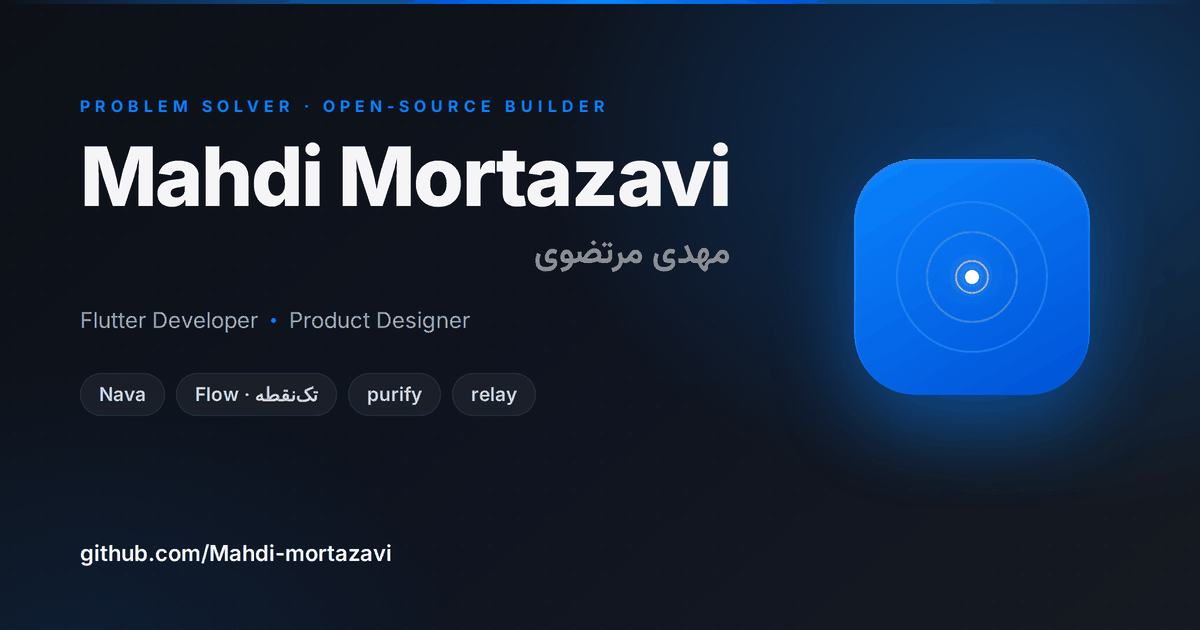
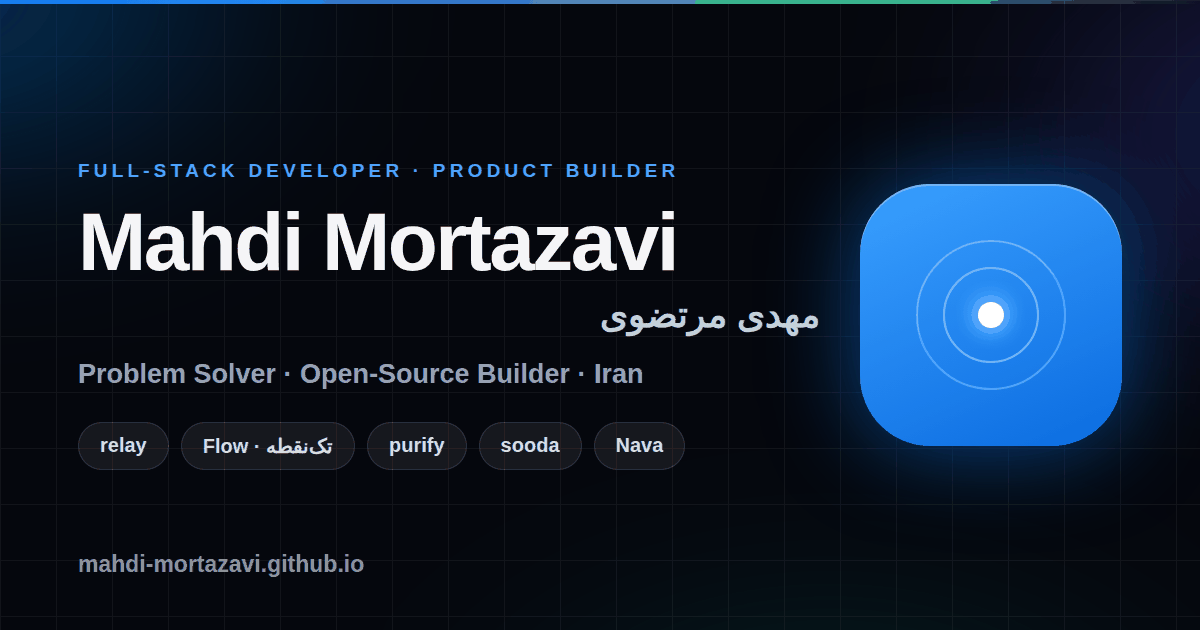
🔗 Stop the homepage disowning itself, and rebuild the social card
While checking why Search Console reports "Couldn't fetch" on the
sitemap, I found something worse than the sitemap.

index.html carried:

    <link rel="canonical" href="https://github.com/Mahdi-mortazavi" />

That tells Google the homepage is a duplicate of the GitHub profile.
The consequence is not subtle: the site's own homepage drops out of the
index and every signal it earns — the Person and ProfilePage graphs, the
ItemList of projects, the description, the inbound links — is handed to
a github.com page that does not point back. It also contradicted its own
JSON-LD (url: mahdi-mortazavi.github.io), the sitemap that lists the
homepage at priority 1.0, and all nine other pages, whose canonicals
already self-reference correctly.

Now self-referencing, like the rest of the site.

Also:

- og-card.png rebuilt. It still read "Flutter Developer · Product
  Designer" — the positioning corrected everywhere else weeks ago — on
  the one image every person sees when the link is pasted into Telegram,
  Slack or a tweet. It now reads Full-Stack Developer · Product Builder,
  with the real project list, the site's own URL rather than the GitHub
  one, and the Persian name. Same visual language as the project cards.
  1200x630, 64 KiB.

- og:image:width/height still declared 2400x1260 after the card was
  resized to spec in the previous change. Corrected to 1200x630; a
  wrong declaration makes some unfurlers lay out the wrong box or skip
  the image.
[…]

diff --git a/index.html b/index.html
@@ -7,7 +7,7 @@
 
 <title>Mahdi Mortazavi · مهدی مرتضوی — Full-Stack Developer</title>
 <meta name="description" content="Mahdi Mortazavi (مهدی مرتضوی) — Full-Stack Developer, Product Builder and Problem Solver from Iran. Open source: relay, Flow, sooda, Nava, purify, overrun." />
-<link rel="canonical" href="https://github.com/Mahdi-mortazavi" />
+<link rel="canonical" href="https://mahdi-mortazavi.github.io/" />
 <meta name="google-site-verification" content="aAHPPvsYFRi91Ey3-MIEcLEP-M76pLV6z-P0M4CEMNg" />
 <link rel="icon" type="image/png" href="avatar.png" />
 <link rel="apple-touch-icon" href="avatar.png" />
@@ -22,8 +22,8 @@
 <meta property="og:image" content="https://mahdi-mortazavi.github.io/og-card.png" />
 <meta property="og:image:secure_url" content="https://mahdi-mortazavi.github.io/og-card.png" />
 <meta property="og:image:type" content="image/png" />
-<meta property="og:image:width" content="2400" />
-<meta property="og:image:height" content="1260" />
+<meta property="og:image:width" content="1200" />
+<meta property="og:image:height" content="630" />
 <meta property="og:image:alt" content="Mahdi Mortazavi — Full-Stack Developer, Product Builder and Problem Solver" />
 
 <!-- Twitter / X -->
